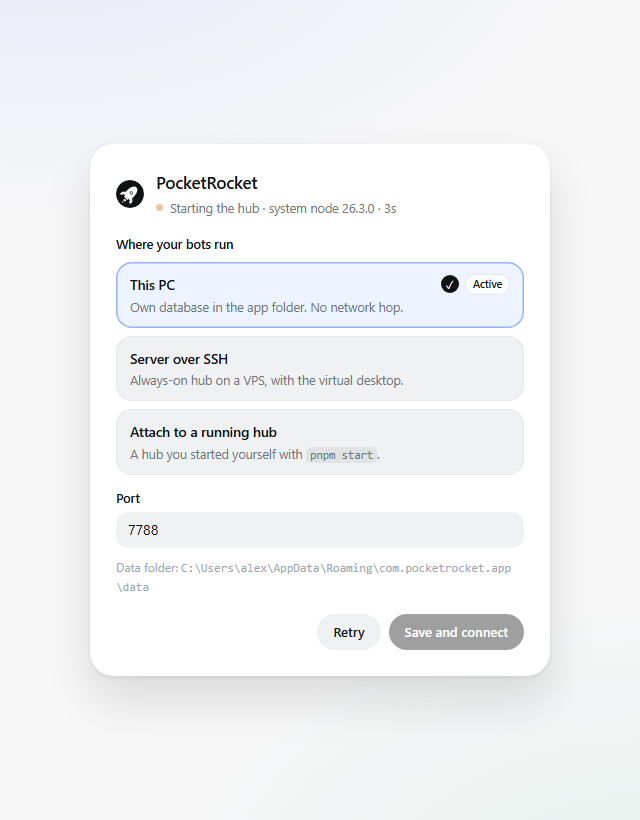
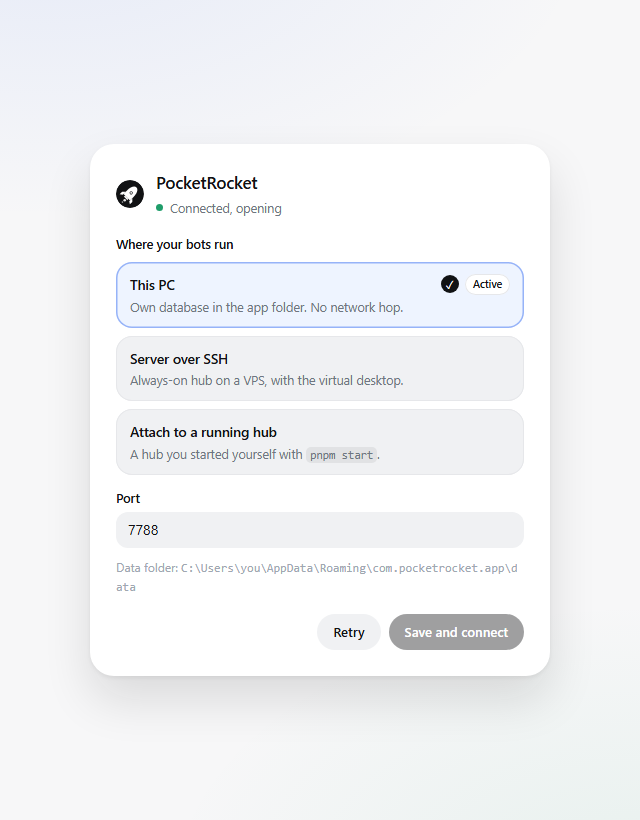
Redact usernames/hosts, hide CLI path in UI, hub-token prompt, pinned CI actions, Dependabot, threat model docs, clean screenshots
Claude-Session: https://claude.ai/code/session_01XcC5Yzqnh5DJ1hniBM9c8V

Changed region(s): [[0.375, 0.6707, 0.8125, 0.7012], [0.25, 0.2439, 0.625, 0.2744], [0.1875, 0.7012, 0.2188, 0.7317]]

diff --git a/packages/web/src/components/TokenPrompt.tsx b/packages/web/src/components/TokenPrompt.tsx
@@ -1,0 +1,53 @@
+import { useEffect, useState } from 'react';
+import { getNeedsToken, setToken, subscribeAuthFailure } from '../lib/auth';
+import { reconnectWsNow } from '../lib/ws';
+import { useStore } from '../store';
+import { Button, Input } from './ui';
+
+/**
+ * The hub always requires a token now. When the API 401s or the WS upgrade gets refused (bad or
+ * missing token), this small centered panel asks for it instead of leaving the app stuck on
+ * "Connecting to the hub".
+ */
+export function TokenPrompt() {
+  const [needsToken, setNeedsToken] = useState(getNeedsToken());
+  const [value, setValue] = useState('');
+  useEffect(() => subscribeAuthFailure(() => setNeedsToken(getNeedsToken())), []);
+
+  if (!needsToken) return null;
+
+  const submit = () => {
+    const t = value.trim();
+    if (!t) return;
+    setToken(t);
+    setNeedsToken(false);
+    setValue('');
+    reconnectWsNow();
+    useStore.getState().refresh();
+  };
+
+  return (
+    <div className="fixed inset-0 z-[200] flex items-center justify-center bg-ink/60 backdrop-blur-sm">
+      <div className="w-[380px] rounded-2xl bg-card p-5 text-[13px] shadow-[var(--shadow-lg)]">
+        <div className="mb-1 text-[15px] font-semibold">Paste the hub token</div>
+        <p className="mb-3 text-muted">
+          The hub prints this as part of a URL like{' '}
+          <span className="font-mono">http://127.0.0.1:7788/#token=&hellip;</span> when it starts, and stores the
+          same value in <span className="font-mono">&lt;data&gt;/hub-token</span>.
+        </p>
+        <Input
+          autoFocus
+          placeholder="hub token"
+          value={value}
+          onChange={(e) => setValue(e.target.value)}
+          onKeyDown={(e) => {
+            if (e.key === 'Enter') submit();
+          }}
+        />
+        <Button className="mt-3 w-full" onClick={submit}>
+          Connect
+        </Button>
+      </div>
+    </div>
+  );
+}

diff --git a/packages/hub/src/providers/opencode/events.test.ts b/packages/hub/src/providers/opencode/events.test.ts
@@ -127,13 +127,13 @@ describe('permission ask -> hub tool', () => {
         id: 'per_3',
         sessionID: 's',
         permission: 'external_directory',
-        metadata: { filepath: 'C:\\Users\\alex\\Desktop\\pr-test.txt', parentDir: 'C:\\Users\\alex\\Desktop' },
+        metadata: { filepath: 'C:\\Users\\dev\\projects\\pocketrocket\\pr-test.txt', parentDir: 'C:\\Users\\dev\\projects\\pocketrocket' },
         tool: { messageID: 'msg', callID: 'call-2' },
       },
       () => 'read',
     );
     expect(m.name).toBe('Read');
-    expect(m.input.file_path).toBe('C:\\Users\\alex\\Desktop\\pr-test.txt');
+    expect(m.input.file_path).toBe('C:\\Users\\dev\\projects\\pocketrocket\\pr-test.txt');
   });
 
   it('falls back to the triggering tool call input when a read ask carries empty metadata', () => {
@@ -183,7 +183,7 @@ describe('TurnTracker over a captured MCP + external_directory run', () => {
 
     // The out-of-project write raised exactly one ask, mapped onto the Write tool, and was rejected.
     expect(h.asks).toHaveLength(1);
-    expect(h.asks[0]).toMatchObject({ name: 'Write', input: { file_path: 'C:\\Users\\alex\\Desktop\\pr-test.txt' } });
+    expect(h.asks[0]).toMatchObject({ name: 'Write', input: { file_path: 'C:\\Users\\dev\\projects\\pocketrocket\\pr-test.txt' } });
     expect(h.replies).toEqual([{ id: 'per_081576943001sXj3pt4sY2XhoP', response: 'reject' }]);
 
     // The MCP call was flagged for the bridge while it was in flight, then cleared.
@@ -240,7 +240,7 @@ describe('duplicate asks for one action', () => {
     const h = harness('ses_z', 'allow');
     const base = {
       sessionID: 'ses_z',
-      metadata: { filepath: 'C:\\Users\\alex\\Desktop\\pr-test.txt' },
+      metadata: { filepath: 'C:\\Users\\dev\\projects\\pocketrocket\\pr-test.txt' },
       tool: { messageID: 'msg', callID: 'call-1' },
     };
     h.tracker.handle({

diff --git a/packages/web/src/lib/ws.ts b/packages/web/src/lib/ws.ts
@@ -1,22 +1,37 @@
 import type { ClientEvent, ServerEvent } from '@pocketrocket/shared';
 import { useStore } from '../store';
-import { getToken } from './auth';
+import { getToken, reportAuthFailure, clearAuthFailure } from './auth';
 
 let socket: WebSocket | null = null;
 let retry = 0;
+let retryTimer: ReturnType<typeof setTimeout> | null = null;
+
+/** Drop any pending backoff retry and reconnect immediately — used after the user pastes a token. */
+export function reconnectWsNow() {
+  if (retryTimer) clearTimeout(retryTimer);
+  retry = 0;
+  connectWs();
+}
 
 export function connectWs() {
   const token = getToken();
   const url = (location.protocol === 'https:' ? 'wss://' : 'ws://') + location.host + '/ws' + (token ? '?token=' + encodeURIComponent(token) : '');
   socket = new WebSocket(url);
+  let opened = false;
   socket.onopen = () => {
+    opened = true;
     retry = 0;
+    clearAuthFailure();
     useStore.getState().setConnected(true);
   };
   socket.onclose = () => {
     useStore.getState().setConnected(false);
+    // The hub destroys the raw socket during the upgrade when the token/Origin check fails, so a
+    // WS that never opens (and keeps failing across a couple of retries, ruling out "hub still
+    // starting") almost always means the token is missing or wrong.
+    if (!opened && retry >= 2) reportAuthFailure();
     const delay = Math.min(10000, 500 * 2 ** retry++);
-    setTimeout(connectWs, delay);
+    retryTimer = setTimeout(connectWs, delay);
   };
   socket.onmessage = (e) => {
     try {

diff --git a/packages/web/src/components/RightPanel.tsx b/packages/web/src/components/RightPanel.tsx
@@ -308,7 +308,7 @@ function UsageTab() {
   const rooms = useStore((s) => s.rooms);
   const live = useStore((s) => s.usage);
   const [rows, setRows] = useState<UsageRow[]>([]);
-  const [health, setHealth] = useState<{ apiKeySource?: string; claudeExe: string; ok: boolean; error?: string } | null>(null);
+  const [health, setHealth] = useState<{ apiKeySource?: string; claudeExe: string; ok: boolean; error?: string; version?: string } | null>(null);
   useEffect(() => {
     api.usage().then((u) => setRows(u.rows));
     api.health().then(setHealth).catch(() => undefined);
@@ -340,7 +340,7 @@ function UsageTab() {
       {health && (
         <div className="rounded-2xl bg-card2/60 p-2 text-[11px] text-muted">
           <div className="mb-1 text-[12px] font-medium text-muted">Hub</div>
-          <div>claude: <span className="font-mono">{health.claudeExe}</span> {health.ok ? <Badge tone="ok">found</Badge> : <Badge tone="bad">missing</Badge>}</div>
+          <div>claude: <span className="font-mono" title={health.claudeExe}>{health.claudeExe.split(/[\\/]/).pop()}{health.version ? ` · ${health.version}` : ''}</span> {health.ok ? <Badge tone="ok">found</Badge> : <Badge tone="bad">missing</Badge>}</div>
           <div>auth: {health.apiKeySource ?? '(known after first turn)'}</div>
         </div>
       )}

diff --git a/packages/web/src/lib/api.ts b/packages/web/src/lib/api.ts
@@ -2,13 +2,21 @@ import type {
   Bot, BotInput, Room, RoomInput, Message, Skill, Routine, RoutineRun, RoutineInput, UsageTotals, UsageRow, HealthInfo,
   Settings, SettingsPatch, ProvidersResponse, ProviderId, ProviderCheck, SecretsStatus,
 } from '@pocketrocket/shared';
-import { getToken } from './auth';
+import { getToken, reportAuthFailure, clearAuthFailure } from './auth';
 
 async function req<T>(method: string, path: string, body?: unknown): Promise<T> {
   const token = getToken();
+  // Sent on every request (GET included) so mutating routes always carry it — the hub rejects
+  // mutating routes without a JSON content type.
   const headers: Record<string, string> = { 'content-type': 'application/json' };
   if (token) headers.authorization = 'Bearer ' + token;
   const r = await fetch(path, { method, headers, body: body === undefined ? undefined : JSON.stringify(body) });
+  if (r.status === 401) {
+    reportAuthFailure();
+    const j = await r.json().catch(() => ({}));
+    throw new Error((j as { error?: string }).error ?? 'Unauthorized');
+  }
+  clearAuthFailure();
   const j = await r.json().catch(() => ({}));
   if (!r.ok) throw new Error((j as { error?: string }).error ?? r.statusText);
   return j as T;

diff --git a/packages/web/src/lib/auth.ts b/packages/web/src/lib/auth.ts
@@ -41,3 +41,46 @@ export function isDesktopMode(): boolean {
     return false;
   }
 }
+
+/**
+ * The hub now always requires a token. When the API 401s or the WS upgrade is refused, the UI
+ * shows a small "paste the hub token" panel. This is a tiny pub-sub outside the zustand store so
+ * lib/api.ts and lib/ws.ts (which the store itself imports) can report failures without a cycle.
+ */
+type Listener = () => void;
+let needsToken = false;
+const listeners = new Set<Listener>();
+
+function emit() {
+  for (const l of listeners) l();
+}
+
+export function reportAuthFailure(): void {
+  if (needsToken) return;
+  needsToken = true;
+  emit();
+}
+
+export function clearAuthFailure(): void {
+  if (!needsToken) return;
+  needsToken = false;
+  emit();
+}
+
+export function getNeedsToken(): boolean {
+  return needsToken;
+}
+
+export function subscribeAuthFailure(cb: Listener): () => void {
+  listeners.add(cb);
+  return () => listeners.delete(cb);
+}
+
+export function setToken(token: string): void {
+  try {
+    sessionStorage.setItem(TOKEN_KEY, token);
+  } catch {
+    /* sessionStorage unavailable */
+  }
+  clearAuthFailure();
+}

diff --git a/packages/web/src/components/App.tsx b/packages/web/src/components/App.tsx
@@ -7,6 +7,7 @@ import { BotDialog } from './dialogs/BotDialog';
 import { RoomDialog } from './dialogs/RoomDialog';
 import { SettingsDialog } from './dialogs/SettingsDialog';
 import { Onboarding } from './Onboarding';
+import { TokenPrompt } from './TokenPrompt';
 import { cn } from './ui';
 
 export function App() {
@@ -53,6 +54,7 @@ export function App() {
       {dialog?.kind === 'settings' && <SettingsDialog onClose={() => openDialog(null)} />}
 
       {showOnboarding && <Onboarding />}
+      <TokenPrompt />
     </div>
   );
 }

diff --git a/docs/PRODUCTION-CHECKLIST.md b/docs/PRODUCTION-CHECKLIST.md
@@ -16,18 +16,27 @@ Use before every public release. Status column: ☑ done and verified · ☐ ope
 
 ## 2. Security
 
+See [`docs/AUDIT-2026-09-09.md`](AUDIT-2026-09-09.md) for the full pre-release audit this section tracks (leaks, vulnerabilities, verified-OK, and the action order in its section D).
+
 | Item | Status | How to verify |
 |---|---|---|
 | Hub binds `127.0.0.1` only | ☑ | `netstat -ano \| findstr 7788` |
-| Origin check on REST + WS + `/screen/` upgrade | ☑ tests | `curl -H "Origin: http://evil.example" http://127.0.0.1:7788/api/bots` → 403 |
+| Origin check on REST + WS + `/screen/` upgrade, including `Origin: null` | ☑ tests | `curl -H "Origin: null" http://127.0.0.1:7788/api/bots` → 403 |
 | Host check (DNS rebinding) | ☑ tests | `curl -H "Host: evil.example" ...` → rejected |
-| Bearer token required in desktop mode (`POCKETROCKET_TOKEN`), health stays open | ☑ | `/api/bots` 401 without token, `/api/health` 200 |
+| Bearer token always required (audit B3/D3) — auto-generated to `<data>/hub-token` when `POCKETROCKET_TOKEN` unset, health stays open | ☑ | `/api/bots` 401 without token, `/api/health` 200 |
+| `/screen/*` behind the same token (audit B2) | ☑ | `curl http://127.0.0.1:7788/screen/vnc.html` → 401 without token |
 | Per-turn MCP token on `/mcp`; tools scoped to that turn | ☑ tests | `mcp/httpServer.test.ts` |
 | Secrets file never returned by the API (`GET /api/secrets` = which keys set) | ☑ | `SecretsStore.test.ts` |
 | No telemetry / no outbound calls except the chosen provider and GitHub releases page | ☑ | grep for `fetch(`/`https://` in hub |
 | Approval cards for out-of-workspace/dangerous ops: Claude full, OpenCode via permission API, Codex/Grok via `request_approval` | ◐ Claude + OpenCode live-verified; Codex/Grok fixtures only | README "Permissions by provider" |
+| Bot CRUD / tool-grant changes gated behind human approval (audit B6) | ☑ | attempt to widen a bot's tools, expect an approval card |
+| `bashRules`/`pathRules` tightened: relative paths, interpreter flags, `isInside` AND-not-OR (audit B3–B5) | ◐ see SECURITY.md Threat model — best-effort against a cooperative model, not a hostile one | `permissions/rules.test.ts`, `permissions/pathRules.test.ts` |
+| Provider children get a per-provider env allowlist instead of the hub's full `process.env` (audit B7) | ☑ | inspect `claude.ts`/`codex.ts`/`grok.ts`/`opencode/server.ts` spawn options |
+| Secrets file permissions enforced on every write, not just creation (audit #17) | ☑ | `SecretsStore.test.ts` |
 | VPS docs say never expose the port; SSH tunnel / Tailscale only | ☑ | `SECURITY.md`, README |
-| Dependency audit | ☐ | `pnpm audit --prod` |
+| CI: top-level `permissions: contents: read`, every third-party action SHA-pinned, Dependabot configured (audit #21) | ☑ | `.github/workflows/ci.yml`, `.github/workflows/release.yml`, `.github/dependabot.yml` |
+| Screenshots/docs/fixtures redacted of the local username and SSH host alias (audit A) | ☑ | see this file's redaction grep in the audit report |
+| Dependency audit | ☑ | `pnpm audit --prod` → 0 |
 | Secret scanning + branch protection on GitHub | ☐ | repo Settings → Code security; protect `main` |
 
 ## 3. Desktop app (Windows)
@@ -99,7 +108,7 @@ Then Settings → provider → DM a bot "Reply with exactly: pong", then ask it 
 ## 6b. Known small issues
 
 - Switching provider from a cold model cache does not reset bot models until the background refresh lands; harmless at turn time (`resolveModelId` maps it), but Settings may briefly show a foreign model.
-- Installed app inherited `mode: remote, sshHost: crm-agency` from the legacy config; that VPS still runs the old Claudebot build. Switch to "This PC" or redeploy with `scripts/deploy.sh crm-agency`.
+- Installed app inherited `mode: remote, sshHost: <host>` from the legacy config; that VPS still runs the old Claudebot build. Switch to "This PC" or redeploy with `scripts/deploy.sh <host>`.
 - `pocketrocket.vercel.app` is taken by an unrelated site; production is `pocketrocket-chi.vercel.app` until a custom domain is added.
 
 ## 7. Server mode (optional path)

diff --git a/SECURITY.md b/SECURITY.md
@@ -8,10 +8,26 @@ Please report security issues via [GitHub private security advisories](https://g
 
 - The hub binds to `127.0.0.1` only, on every platform and in every run mode (local, VPS, screen). It is never meant to be reachable from another host directly.
 - **Never expose the hub's port (default `7788`) to the internet or a LAN.** Reach a remote hub over an SSH tunnel or a private overlay network (e.g. Tailscale) instead.
-- In desktop mode, requests to the hub must carry a per-launch bearer token generated by the app; the web UI reads it from the URL fragment. In local/dev use, the hub instead relies on `Origin`/`Host` checks against loopback.
-- REST/WS requests with an `Origin` header that isn't `http://127.0.0.1:<port>` or `http://localhost:<port>` are rejected, to block CSRF from arbitrary sites and DNS-rebinding attacks.
+- The hub always requires a bearer token — there is no unauthenticated mode. `POCKETROCKET_TOKEN` wins when set; otherwise a fresh token is minted on every start, written to `<data>/hub-token` (0600), and printed at startup as `http://127.0.0.1:7788/#token=…`. The desktop app and web UI both pick the token up from that URL fragment automatically; `pnpm start` users read it from the printed line or the file.
+- REST/WS requests with an `Origin` header that isn't `http://127.0.0.1:<port>` or `http://localhost:<port>` are rejected — including `Origin: null` (e.g. a sandboxed iframe) — to block CSRF from arbitrary sites and DNS-rebinding attacks. `/screen/*` (the noVNC desktop bridge) requires the same token as every other route.
 - Provider credentials (CLI subscription logins, API keys) stay wherever the provider's own CLI stores them, or in `data/secrets.json` for keys PocketRocket manages directly; neither is transmitted anywhere except to that provider.
 - The hub does not phone home. It talks to your provider (Claude, OpenAI, OpenCode's configured backends, or xAI) and nothing else.
+- Bot management actions that widen what a bot can do (creating/editing a bot, changing its tool grants) show an approval card for a human to confirm, the same way a risky tool call does.
+
+## Threat model
+
+The workspace sandbox (path/bash rules) and the approval cards are built to catch a **cooperative model making an honest mistake** — a bot that wanders outside its workspace by accident, or runs a command it shouldn't because it didn't think it through. They are not a security boundary against a **hostile model**: one that has been prompt-injected by content it read (a fetched page, a file, another bot's message) or is otherwise deliberately trying to escape.
+
+A sufficiently motivated or injected bot can still find gaps, including but not limited to:
+
+- **Interpreters it's allowed to run** (`node`, `python`, `bun`, etc.) can execute arbitrary code that never goes through the bash/path rules at all.
+- **Relative paths and path tricks** (`../`, junctions, not-yet-existing files) can land outside the intended workspace even when the rules look right on paper.
+- **Symlinks** created inside the workspace can point anywhere the hub process can reach.
+- **External CLIs bring their own sandboxing** (or lack of it) — a provider's CLI, an MCP server, or a tool it shells out to may not respect PocketRocket's rules at all.
+
+Treat every bot — including one running a "trusted" model — like **a junior contractor who has a shell on your machine**: give it the least access it needs, review what it's about to do, and assume that anything it reads (web pages, files, other bots' messages) could be an attempt to redirect it.
+
+**Never grant the Browser or Desktop tools to a bot that reads untrusted content** (web pages, emails, files from someone else, other bots' output). Those tools give it a real GUI session — enough to exfiltrate data, click through prompts, or drive whatever is logged into that session.
 
 ## Scope
 

diff --git a/CHANGELOG.md b/CHANGELOG.md
@@ -23,6 +23,20 @@ and this project adheres to [Semantic Versioning](https://semver.org/spec/v2.0.0
 - Much smaller download: the hub bundle went from 271 MB to 62 MB (Windows installer ~30 MB) by dropping the Claude Agent SDK's vendored copy of the Claude CLI, which PocketRocket never runs — it always drives your own `claude.exe`.
 - The installed executable is `PocketRocket.exe` (it was `pocketrocket-desktop.exe`); the Start menu and desktop shortcuts were already named PocketRocket.
 
+### Security
+
+Fixes from the pre-release audit ([`docs/AUDIT-2026-09-09.md`](docs/AUDIT-2026-09-09.md)):
+
+- The hub token is now always on — there is no unauthenticated mode. It's auto-generated when `POCKETROCKET_TOKEN` is unset, written to `<data>/hub-token` (0600), and printed at startup as `http://127.0.0.1:7788/#token=…`.
+- `Origin: null` is no longer whitelisted; REST/WS requests from a sandboxed iframe or any other `null`-origin context are rejected like any other foreign origin.
+- `/screen/*` (the noVNC desktop bridge) now requires the same bearer token as every other route, instead of being exempt.
+- Bash/path permission rules tightened: relative-path and post-`cd` resolution, denial of interpreter eval/exec flags, and `isInside` now requires the canonical path **and** its realpath both stay inside the allowed roots, instead of either one being enough.
+- Bot CRUD and tool-grant changes now go through a human approval card; a bot can no longer widen its own tool grants unattended.
+- Provider child processes get a per-provider environment allowlist instead of the hub's entire `process.env`.
+- `secrets.json` permissions are re-applied on every write, not just when the file is first created.
+- CI hardened: a top-level `permissions: contents: read`, every third-party GitHub Action pinned to a commit SHA, and Dependabot configured for `github-actions`, `npm`, and `cargo`.
+- Redacted the local Windows username and an internal SSH host alias out of screenshots, test fixtures, and docs (`app.png`, `app-dark.png`, `docs/screenshots/*`, `.env.example`, `docs/PLAN.md`, `docs/PRODUCTION-CHECKLIST.md`), and widened `.gitignore` to catch `.env*`, `secrets.json`, `auth.json`, and `hub-token` going forward.
+
 ### Fixed
 
 - Quitting the hub with Ctrl+C while OpenCode was the active provider hung for eight seconds and left an `opencode serve` process running in the background. It now shuts down in about a second with nothing left behind.

diff --git a/README.md b/README.md
@@ -60,15 +60,20 @@ Custom tools every bot gets: `send_message`, `handoff`, `update_memory`, `read_m
 
 ## Permissions
 
+See [SECURITY.md](SECURITY.md) for the token model and the threat model behind these rules — treat every bot like a contractor with a shell on your machine, not a sandboxed toy.
+
 Permission depth depends on what each provider's CLI exposes; see the table above for the summary. In more detail, for providers with hub-mediated permissions:
 
 - `Read/Glob/Grep` inside `data/workspace/` or the bot's home: silent. Outside: an approval card.
 - `Write/Edit` inside the workspace: auto-accepted. Outside: approval card.
 - `Bash`: an allowlist of read-only/build commands runs silently; anything else asks, and destructive patterns (`rm -rf`, `git push`, `curl | sh`, …) are flagged red. Absolute paths outside the workspace always ask.
 - `WebSearch/WebFetch`: silent when enabled for the bot.
+- Creating or editing a bot, or changing what tools it's allowed to use, shows an approval card too — a bot can no longer widen its own permissions without a human clicking "allow".
 - "Allow for this session" adds a permission rule for the rest of that session; approvals time out after 10 minutes as a deny.
 
 For Codex and Grok, permission parity is **best effort by design**: the provider sandboxes itself to the workspace directory, and a hub-provided `request_approval` tool is injected for anything outside it or otherwise dangerous — the model has to choose to call it, so it's not as airtight as Claude's hook-based interception or OpenCode's native permission API.
+
+The hub always requires a token — every run mode, no exceptions. It's minted on first start and printed as a URL (`http://127.0.0.1:7788/#token=…`); the desktop app and web UI consume that fragment automatically. If you're running with `pnpm start`, either copy that printed URL or read the token straight from `<data>/hub-token`.
 
 Tests: `pnpm test` (vitest in the hub). Debug a provider subprocess with `POCKETROCKET_DEBUG=1`.
 

diff --git a/docs/CONFIGURATION.md b/docs/CONFIGURATION.md
@@ -11,7 +11,7 @@ Read in `packages/hub/src/config.ts` and the provider adapters. Set them in `.en
 | `PORT` ★ | `7788` | Hub HTTP/WS port, always bound to `127.0.0.1`. |
 | `POCKETROCKET_DATA` ★ | `<repo>/data` | Data root: `pocketrocket.db`, `bots/`, `workspace/`, `skills/`, `secrets.json`, `grok-home/`. Desktop: `%APPDATA%\com.pocketrocket.app\data`. |
 | `POCKETROCKET_WEB_DIST` ★ | `<repo>/packages/web/dist` | Where the built web UI is served from. Desktop points it at the bundled `hub/web`. |
-| `POCKETROCKET_TOKEN` ★ | unset | When set, every `/api/*` route except `GET /api/health`, and `/ws`, require this bearer token. Desktop generates a fresh 32-hex token per launch. Unset = loopback + Origin/Host checks only (dev / `pnpm start`). |
+| `POCKETROCKET_TOKEN` ★ | auto-generated when unset, stored in `<data>/hub-token` | Bearer token required on every `/api/*` route (except `GET /api/health`), `/ws`, and `/screen/*`. When unset, the hub mints a fresh token on each start, writes it to `<data>/hub-token` (0600), and prints it as `http://127.0.0.1:7788/#token=…`. Desktop reads/generates its own per-launch token the same way. There is no unauthenticated mode. |
 | `POCKETROCKET_DEBUG` | unset | `1` = log provider CLI stderr and PreToolUse hook decisions. |
 | `CLAUDE_EXE` | `~/.local/bin/claude(.exe)` | Path to the Claude Code CLI the Agent SDK spawns. |
 | `ANTHROPIC_API_KEY` | unset | Use an API key instead of the Claude Code login. Also settable in Settings → API keys. |
